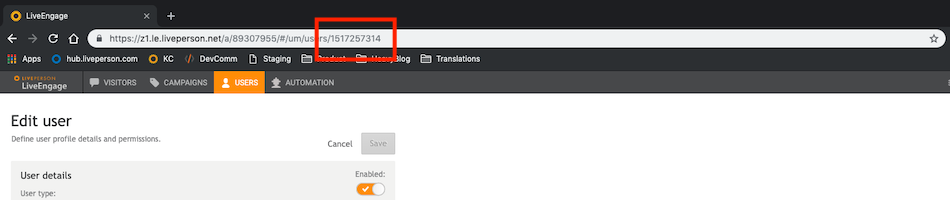
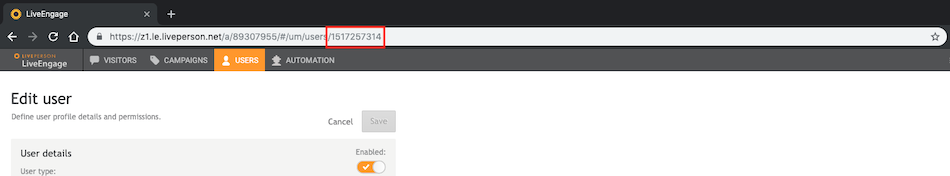
fixing userid image

diff --git a/pages/documents/ClientSideConfiguration/FaaS/external-invocations.md b/pages/documents/ClientSideConfiguration/FaaS/external-invocations.md
@@ -10,8 +10,6 @@ indicator: both
 
 To give brands the option to call their FaaS functions from outside of LivePerson's platform, we provide an API for External Invocation. With this API they can call their functions externally, secured by OAuth2.
 
-[Missing picture]: <> (Please ensure to add the picture with the "clouds" here)
-
 Further information about OAuth2 and how we use it:
 
 * OAuth2 introduction video: [link](https://www.youtube.com/watch?v=CPbvxxslDTU)
